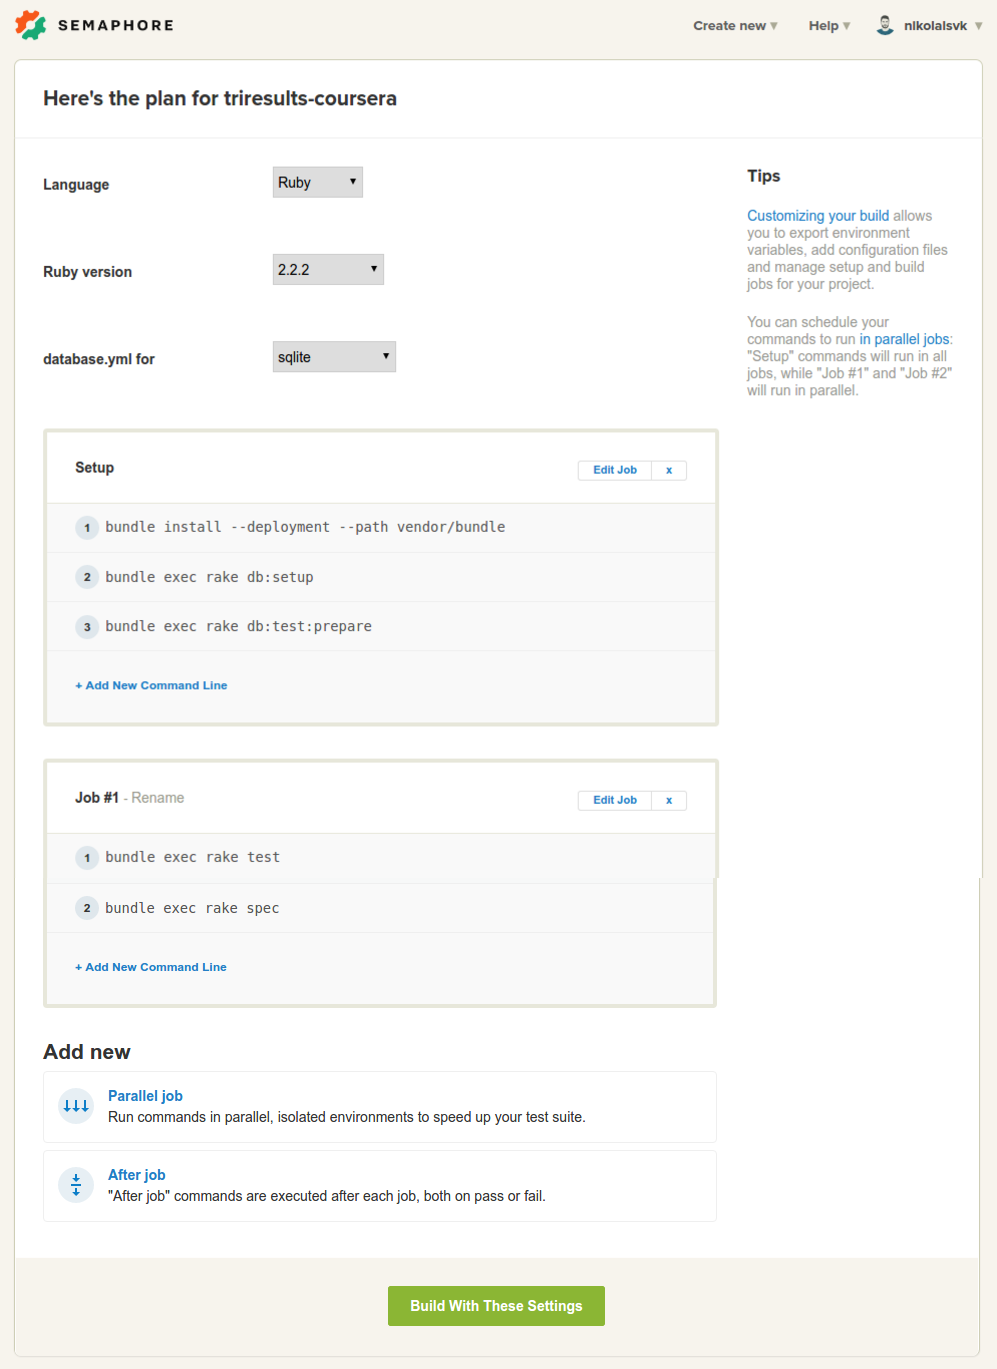
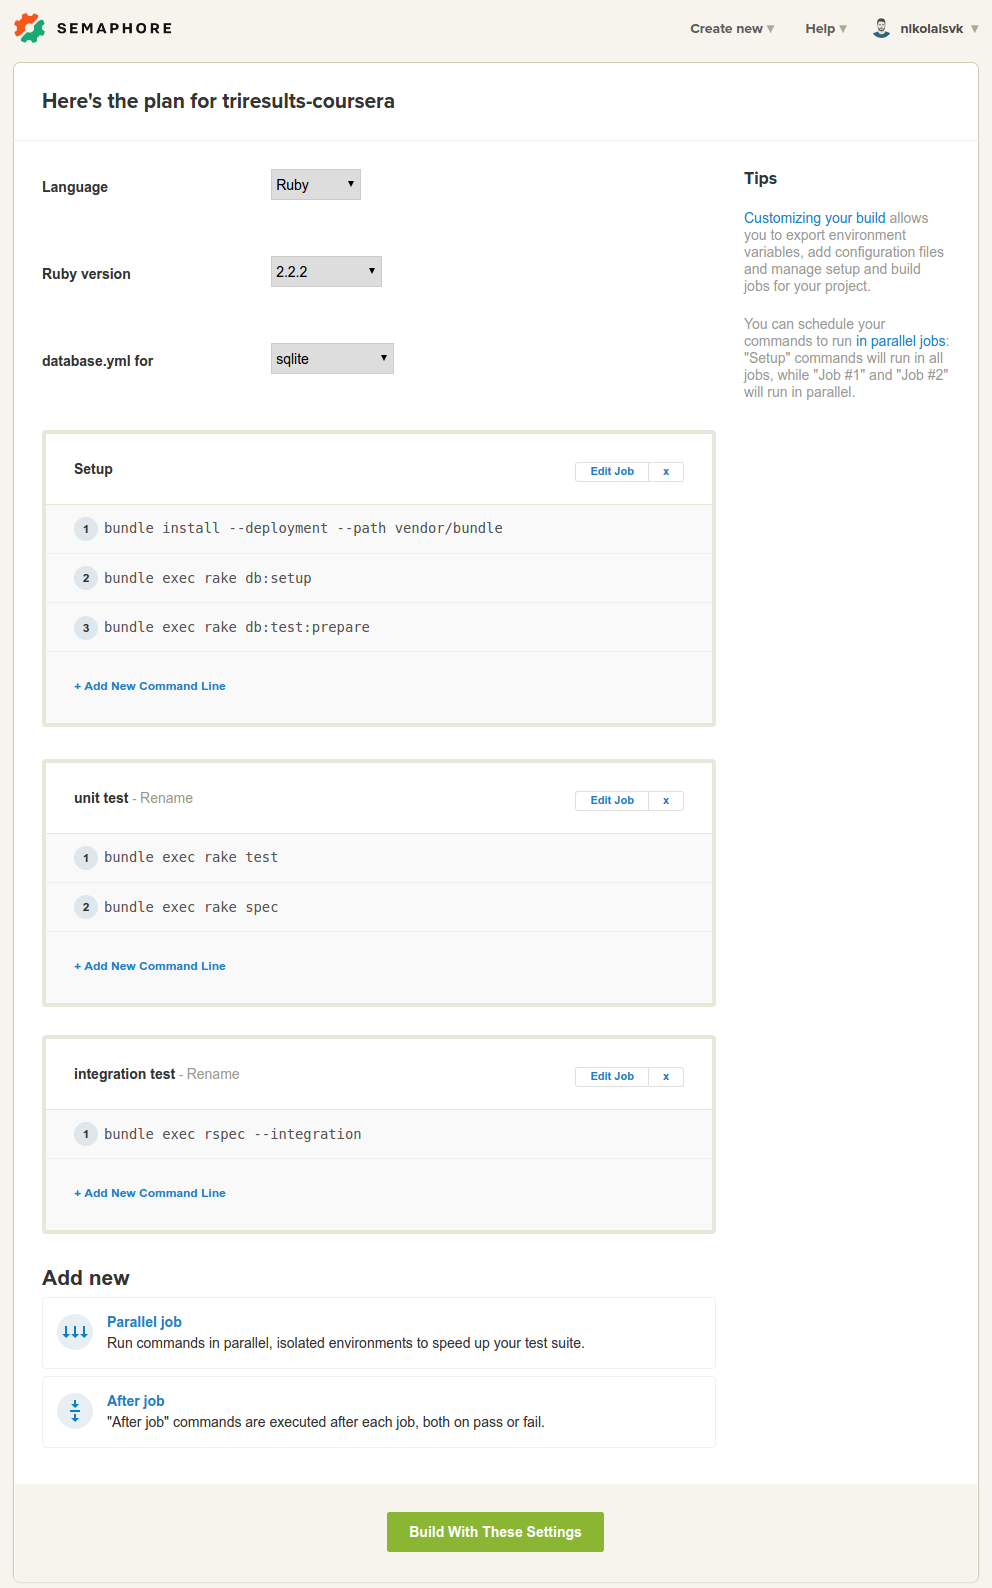
Customizing build commands after analysis

diff --git a/source/docs/adding-github-bitbucket-project-to-semaphore.md b/source/docs/adding-github-bitbucket-project-to-semaphore.md
@@ -26,7 +26,7 @@ pull request status. Select your preferred Git host.
 
 <img src="/docs/assets/img/adding-new-project/select-github-or-bitbucket.png" class="img-responsive img-bordered">
 
-We will now assume that you chose GitHub. On the next screen, select whether you
+We will now assume that you selected GitHub. On the next screen, select whether you
 would like to give Semaphore access to your public (open-source) or
 private projects. Access to private projects also includes access to public
 projects.
@@ -38,7 +38,7 @@ The rest of the procedure is the same as with GitHub.
 
 <img src="/docs/assets/img/adding-new-project/choose-public-private-github-scope.png" class="img-responsive img-bordered">
 
-We will now presume that you chose Private & Public.
+We will now presume that you selected Private & Public.
 
 At this point, Semaphore will redirect you to github.com or bitbucket.com, where
 you will be presented a screen to authorize Semaphore to access your account via
@@ -87,6 +87,27 @@ generate a set of working build commands depending on your project's programming
 language.
 
 <img src="/docs/assets/img/adding-new-project/analysis-results.png" class="img-responsive img-bordered">
+
+In this case, we have a Ruby on Rails application for which we would like to run
+unit and integration tests. We'll go ahead and rename the first job.
+
+<img src="/docs/assets/img/adding-new-project/rename-job.png" class="img-responsive img-bordered">
+
+After that we'll add a new parallel job for integration tests. You can
+add a parallel job by clicking "Parallel job". You can add as many jobs
+as you want.
+
+<img src="/docs/assets/img/adding-new-project/add-parallel-job.png" class="img-responsive img-bordered">
+
+We will enter a command `bundle exec rspec --integration` in our command
+editor.
+
+<img src="/docs/assets/img/adding-new-project/enter-command.png" class="img-responsive img-bordered">
+
+Now our build settings look much better. We have 2 parallel jobs, one for unit test,
+second for integration test.
+
+<img src="/docs/assets/img/adding-new-project/final-commands.png" class="img-responsive img-bordered">
 
 If your project needs to run commands that are different from what Semaphore has
 suggested, just use the commands editor to customize them to your needs.
